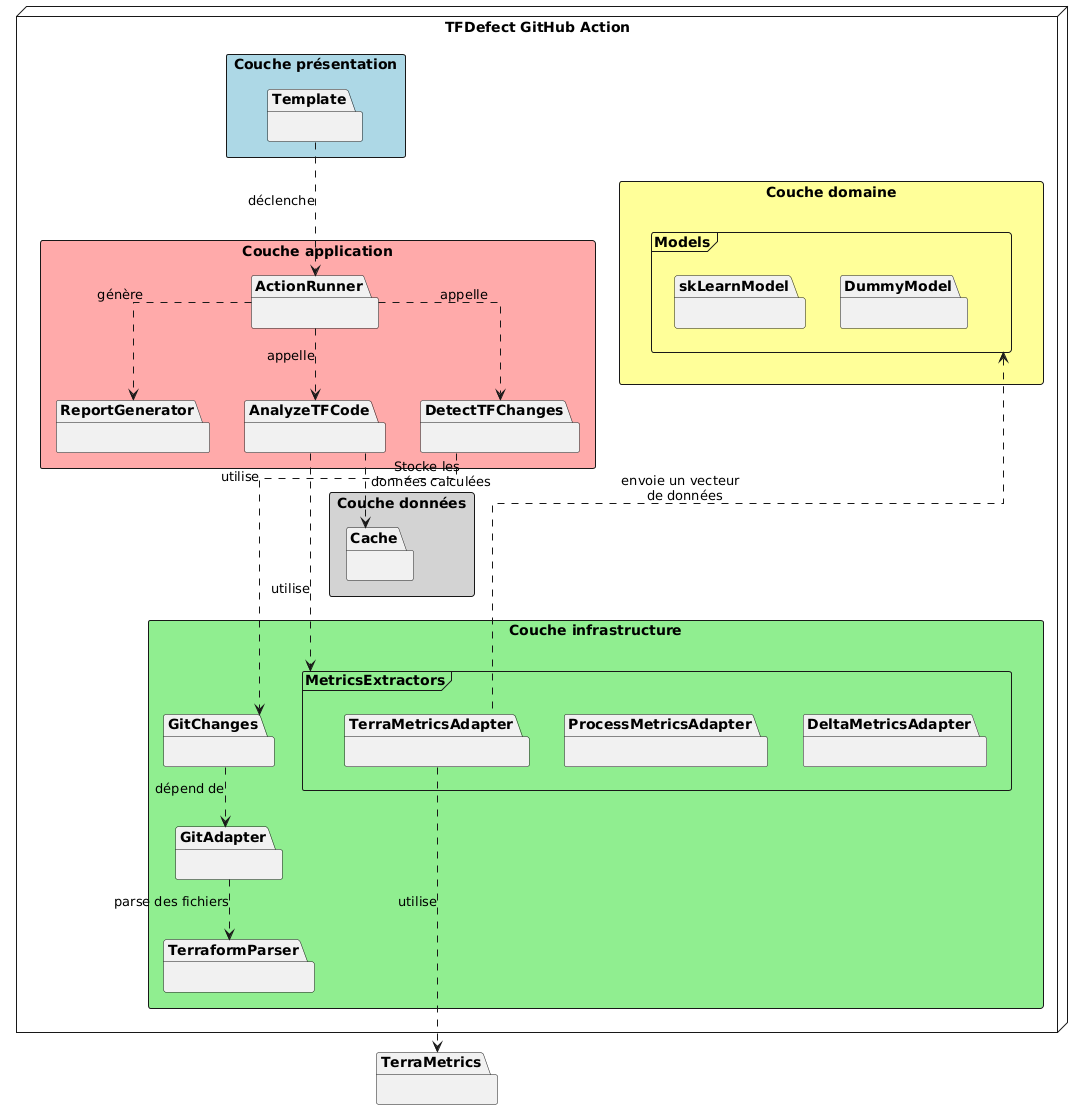
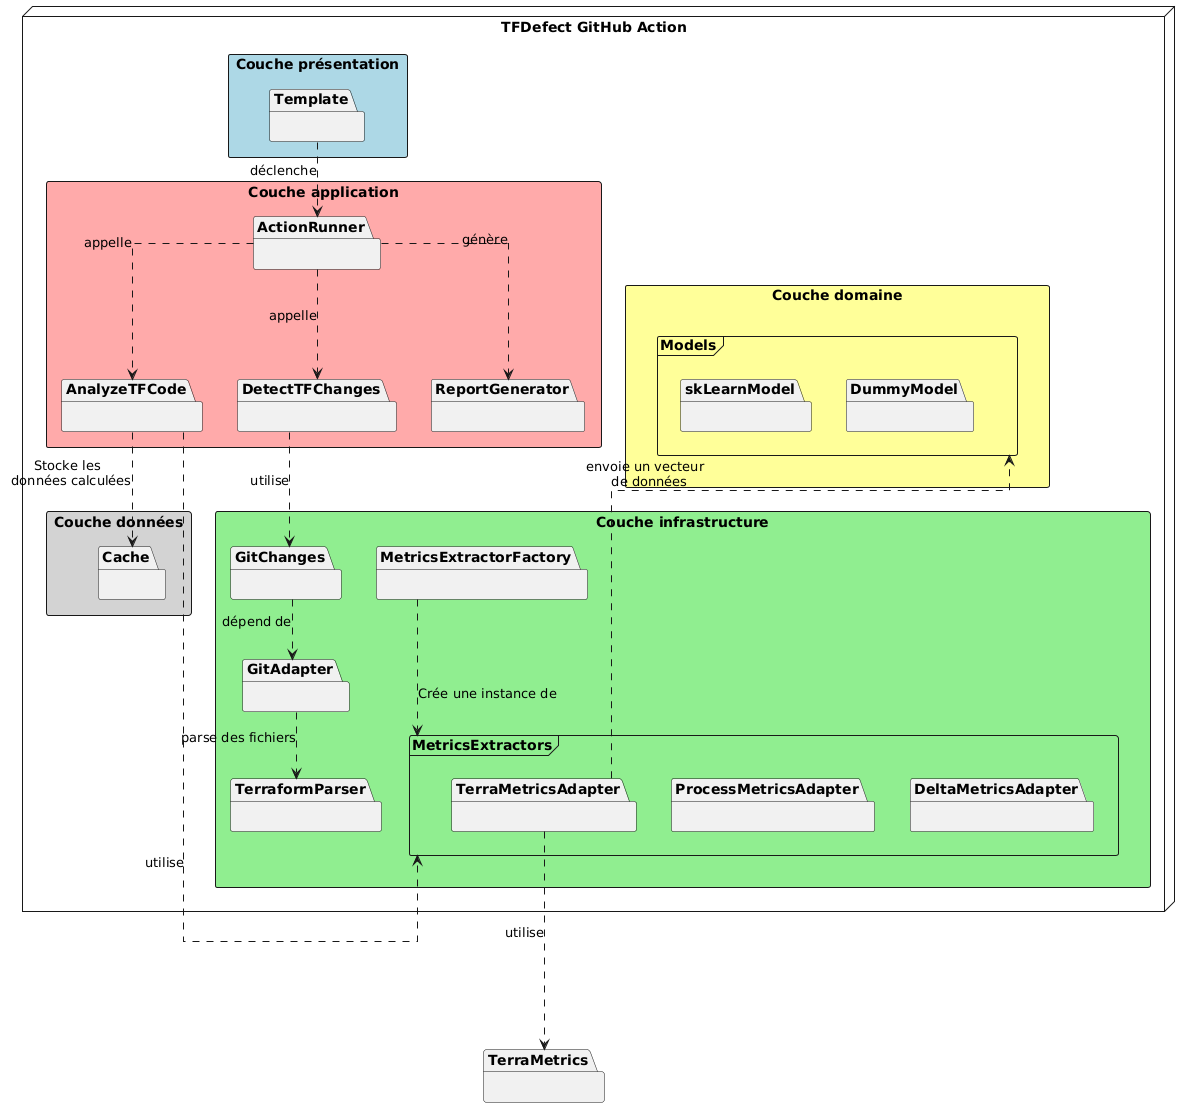
Ajout de la classe MetricsExtractorFactory dans le document d'architecture

diff --git a/documentation/document/documentArchitecture.md b/documentation/document/documentArchitecture.md
@@ -42,7 +42,7 @@ L'architecture de l'Action GitHub TFDefect se compose des 4 couches suivantes:
 - **Couche données**: Elle contient une cache qui stocke les données calculées temporairement pour optimiser les performances et éviter des calculs inutiles.
 - **Couche domaine** : C’est le cœur de l’application, où sont définies les règles métiers et les modèles de données.
   - `Models`: Regroupe les modèles d’apprentissage automatique utilisés pour l’analyse des métriques. On y retrouve le module `skLearnModel` qui Implémente un modèle basé sur scikit-learn pour prédire des anomalies ou tendances dans les métriques Terraform. On y retrouve également le module `DummyModel`, qui est un modèle naïf utilisé pour faire des tests.
-- **Couche infrastructure** : Elle gère les interactions avec des services externes (Git, fichiers Terraform, etc.). Elle contient les adaptateurs `GitChanges`, `GitAdapter` et `TerraformParser`. Elle contient également le bloc `MetricsExtractors` qui regroupe les 3 méthodes de calcul des métriques suivantes: `TerraMetricsAdapter`, `ProcessMetricsAdapter` et `DeltaMetricsAdapter`.
+- **Couche infrastructure** : Elle gère les interactions avec des services externes (Git, fichiers Terraform, etc.). Elle contient les adaptateurs `GitChanges`, `GitAdapter` et `TerraformParser`. Elle contient également le bloc `MetricsExtractors` qui regroupe les 3 méthodes de calcul des métriques suivantes: `TerraMetricsAdapter`, `ProcessMetricsAdapter` et `DeltaMetricsAdapter`. De plus, elle contient MetricsExtractorFactory, qui permet d'utiliser l'extracteur de métriques choisi par un utilisateur.
 - **Autre (externe)**:
   - `TerraMetrics`: Outil qui permet de calculer des métriques pour un fichier Terraform 
 
@@ -72,7 +72,8 @@ Le diagramme de classes suivant illustre la structure du système en mettant en 
 - **TerraMetricsAdapter** : Calcule des métriques spécifiques à partir des blocs Terraform à l'aide de TerraMetrics.  
 - **ProcessMetricsAdapter**: Autre méthode de calcul des métriques spécifiques à partir des blocs Terraform.
 - **DeltaMetricsAdapter**: Autre méthode de calcul des métriques spécifiques à partir des blocs Terraform.
-
+- **MetricsExtractorFactory**: Classe permettant de retourner une instance de l'extracteur de métriques choisi par le développeur lorsqu'il veut de lancer l'Action GitHub.
+  
 <div style="page-break-before:always"></div>
 
 ## Technologies utilisées
